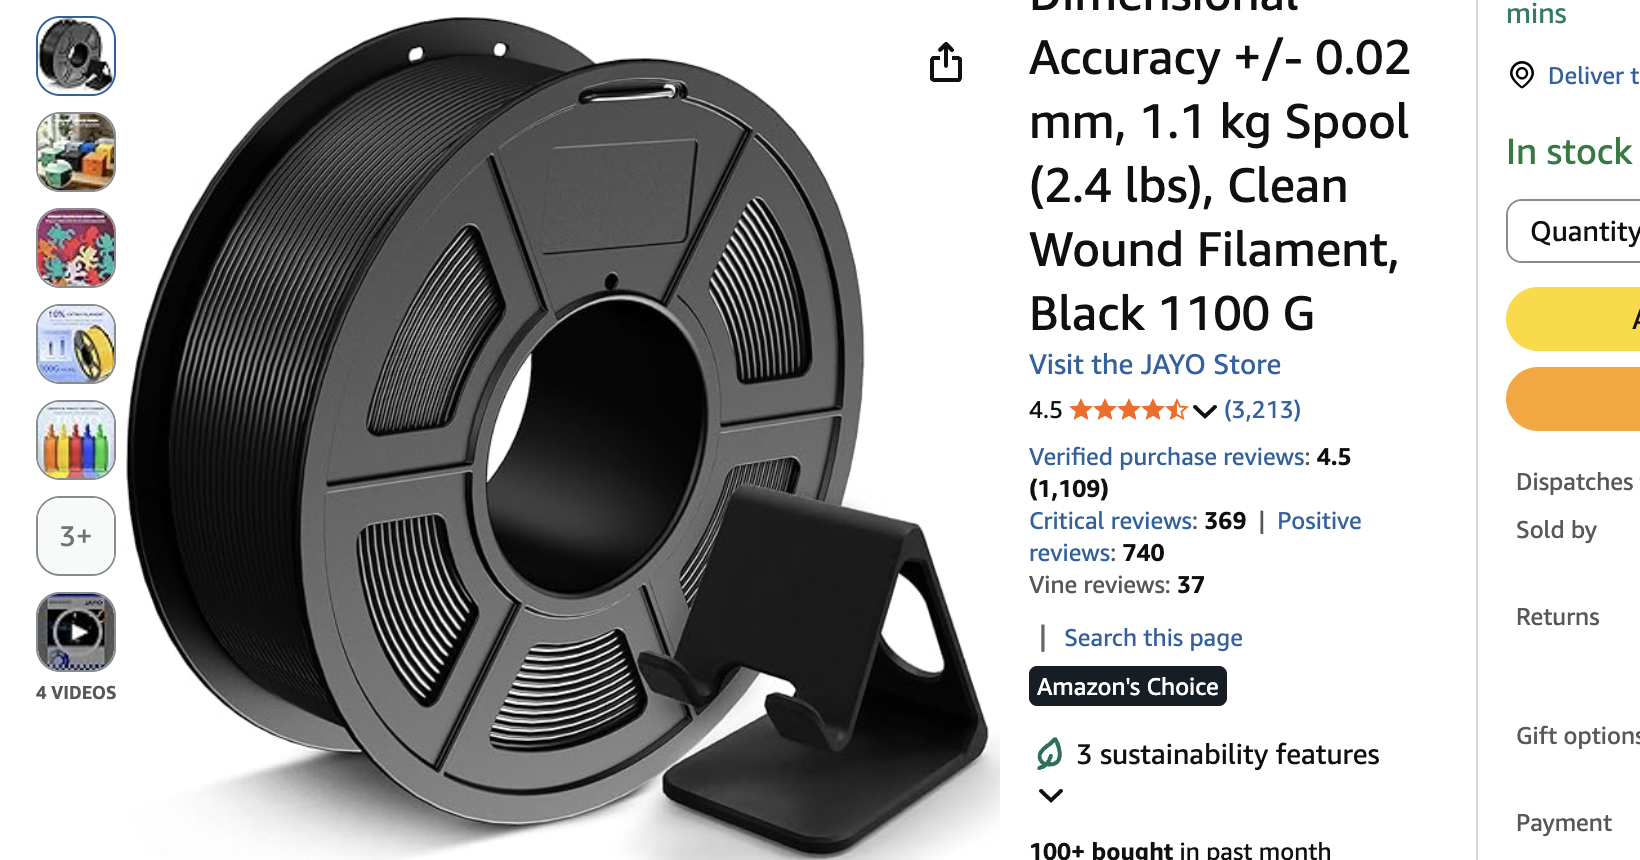
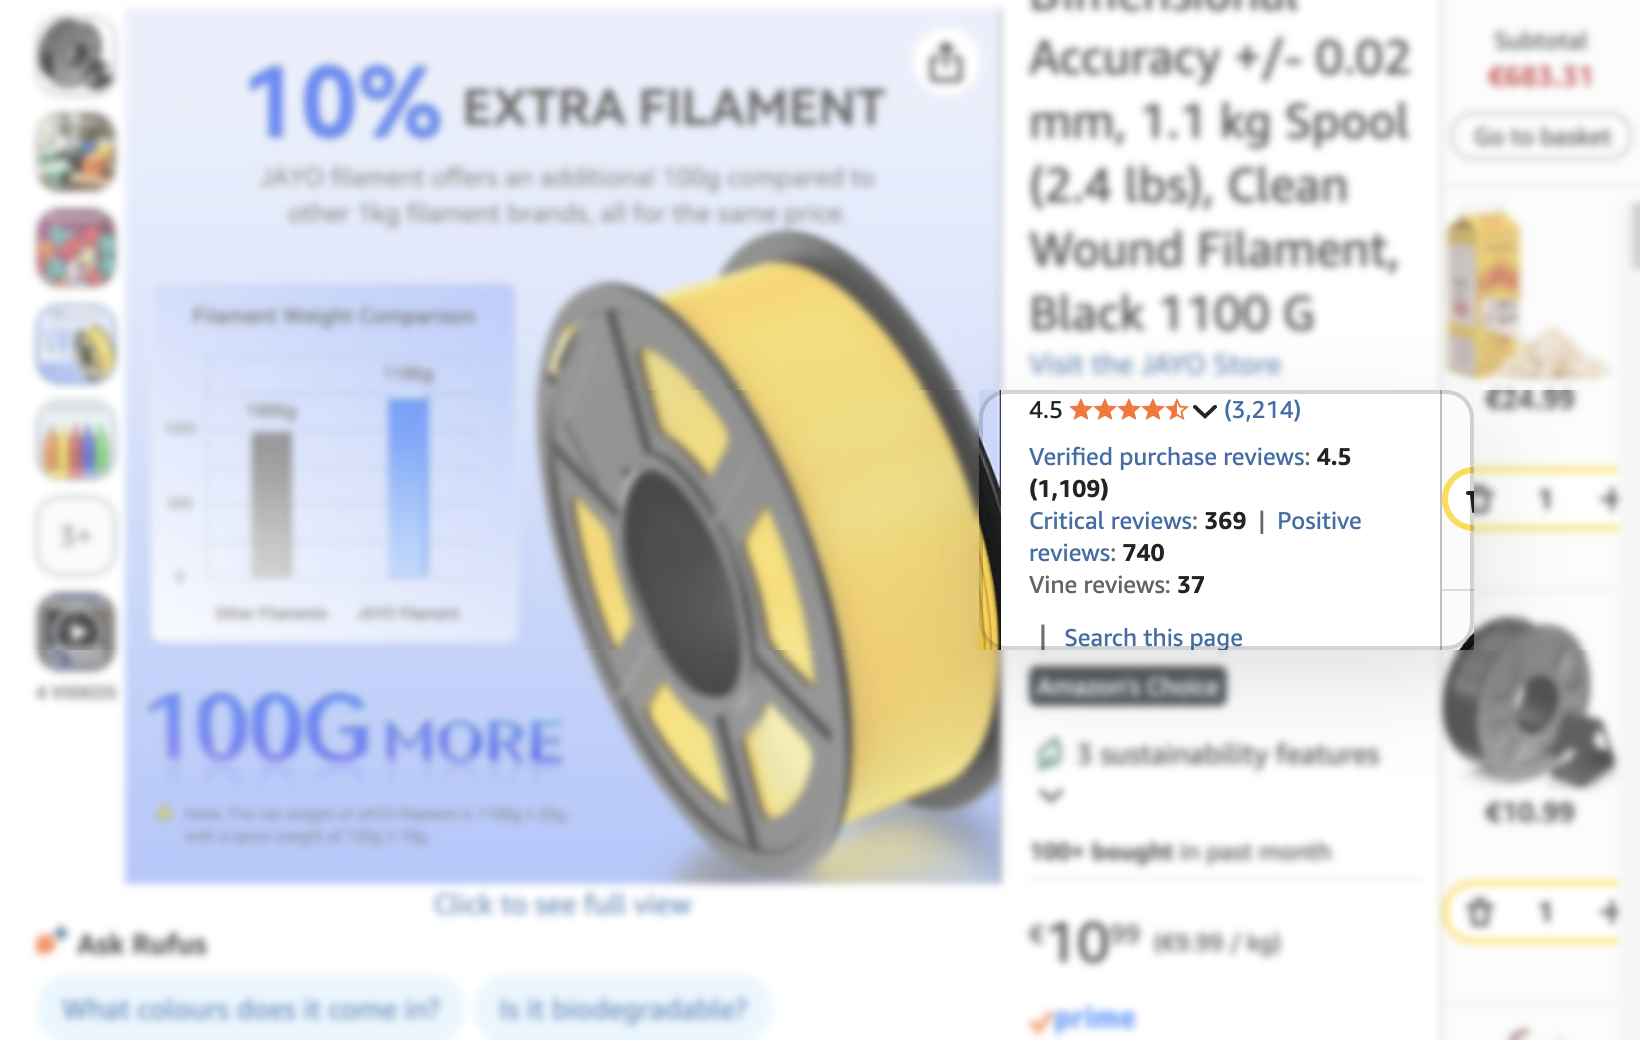
Update screenshot workflow and overlay screenshots

diff --git a/docs/screenshot-workflow.md b/docs/screenshot-workflow.md
@@ -1,0 +1,82 @@
+# Screenshot Workflow
+
+Use this workflow when you need to refresh screenshots fast.
+
+## Goal
+
+Create two screenshots:
+
+- before
+- after
+
+Both screenshots should highlight the review area with:
+
+- 25px padding
+- semi-transparent outside overlay
+- `backdrop-filter: blur(2px)`
+
+## Files
+
+Save screenshots here:
+
+- `docs/images/review-block-before.png`
+- `docs/images/review-block-after.png`
+
+## Before screenshot
+
+1. Open the Amazon product page in Chrome MCP.
+2. Reload the page first, so the userscript is not running.
+3. Resize the page to a stable size.
+4. Scroll to the product rating block.
+5. Add the screenshot overlay around `#averageCustomerReviews_feature_div`.
+6. Use 25px padding.
+7. Extend the focus area a bit below the rating block, so the future extension area is visible.
+8. Save the screenshot as `review-block-before.png`.
+
+## After screenshot
+
+1. Inject the current userscript through DevTools.
+2. Wait until the review block appears.
+3. Remove the old overlay.
+4. Add the same overlay again, but target `#better-reviews-for-amazon-extra`.
+5. Use the same 25px padding and blur.
+6. Save the screenshot as `review-block-after.png`.
+
+## Injection shortcut
+
+The fastest local command to prepare the userscript for DevTools is:
+
+```bash
+sed '1,9d' better-reviews-for-amazon.user.js | base64
+```
+
+This removes the userscript metadata header and gives you a base64 string.
+
+Then in DevTools, run:
+
+```js
+const source = atob('PASTE_BASE64_HERE');
+eval(source);
+```
+
+## Overlay idea
+
+The overlay should:
+
+- keep the focus box clear
+- blur and dim everything outside the focus box
+- add a soft border and shadow around the focus box
+
+Suggested visual settings:
+
+- outside background: `rgba(255,255,255,0.28)`
+- blur: `2px`
+- border radius: `14px`
+- border: `2px solid rgba(15,17,17,0.18)`
+- shadow: `0 18px 45px rgba(15,17,17,0.12)`
+
+## Notes
+
+- Keep the same viewport size if possible, so screenshots stay visually consistent.
+- Always take the before screenshot after reload.
+- Always take the after screenshot only after the review block has finished rendering.

diff --git a/README.md b/README.md
@@ -53,3 +53,7 @@ After:
 ## Docs
 
 Project notes and research live in [`docs/`](./docs/).
+
+Useful docs:
+
+- [Screenshot workflow](./docs/screenshot-workflow.md)
